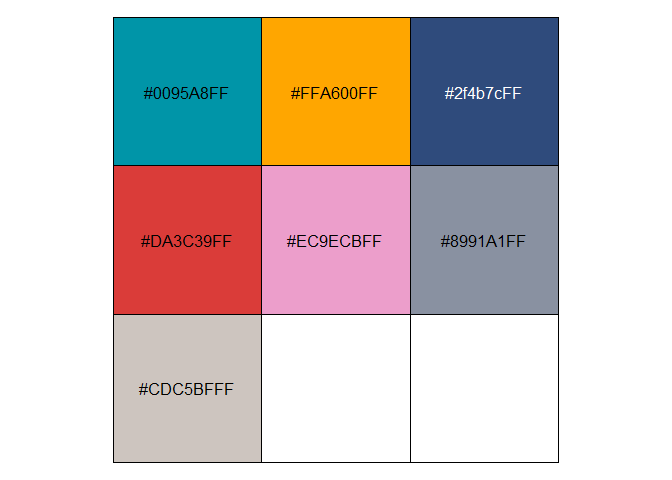
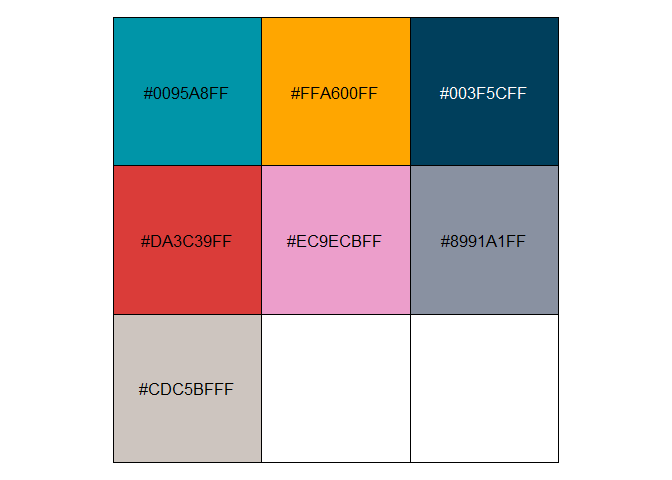
Update navy, and add tests

Changed region(s): [[0.5938, 0.0312, 0.8438, 0.3438]]

diff --git a/README.md b/README.md
@@ -14,6 +14,7 @@ that is also relatively colourblind and contrast safe.
 
 Note:
 
+- The palette is designed for a light background
 - The first 4 colours are colour-blind safe for deutanomaly, protanomaly
   and tritanomaly
 - The first 5 colours are colour-blind safe for deutanomaly
